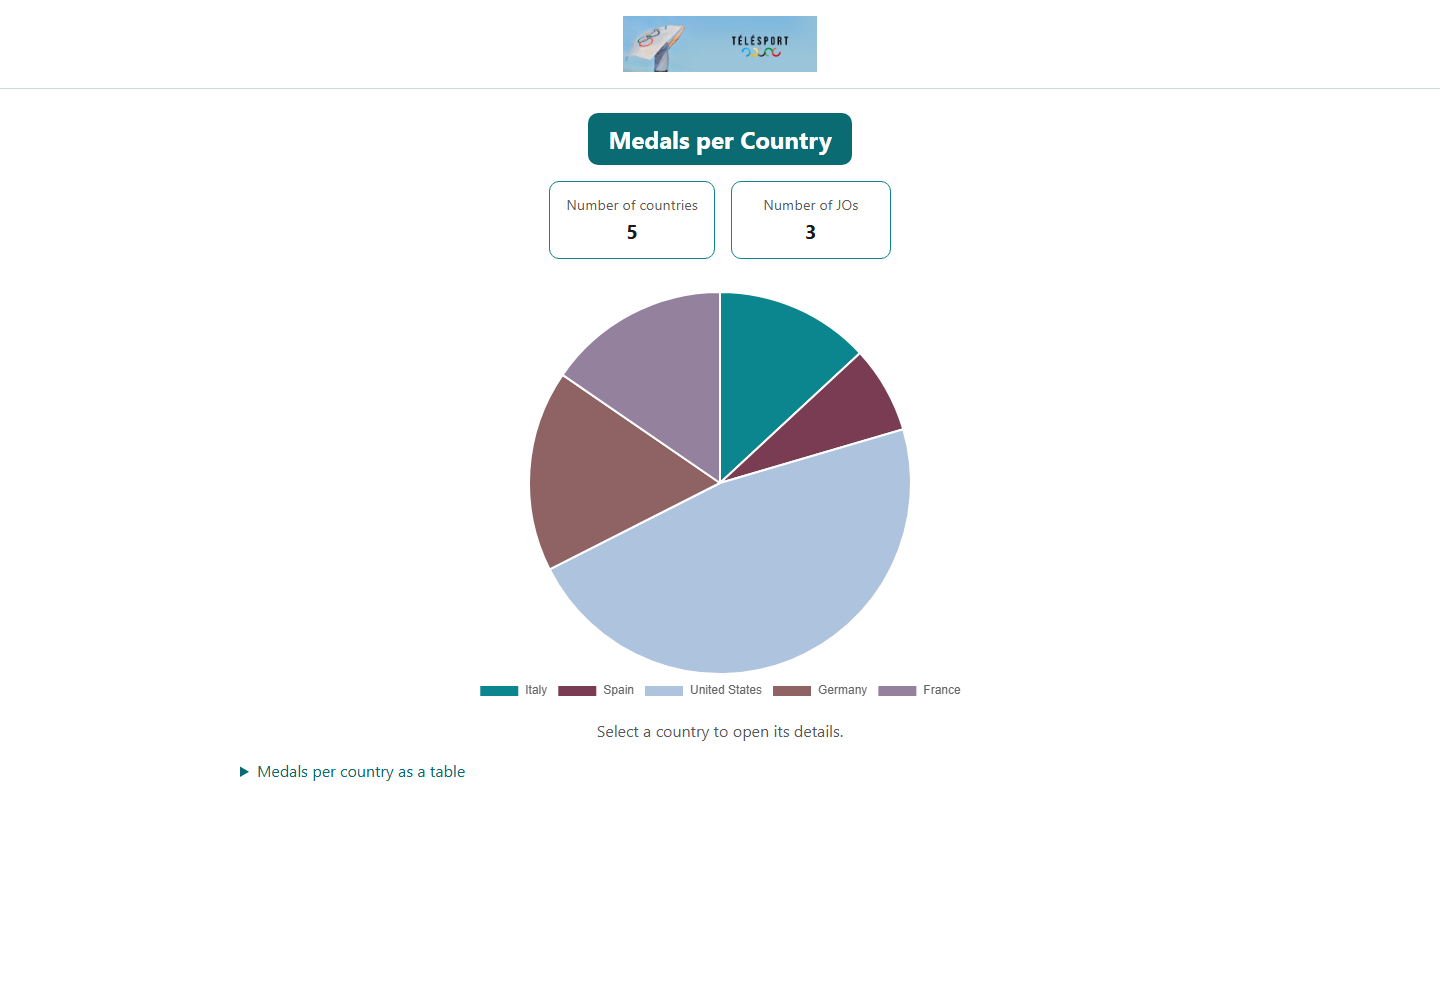
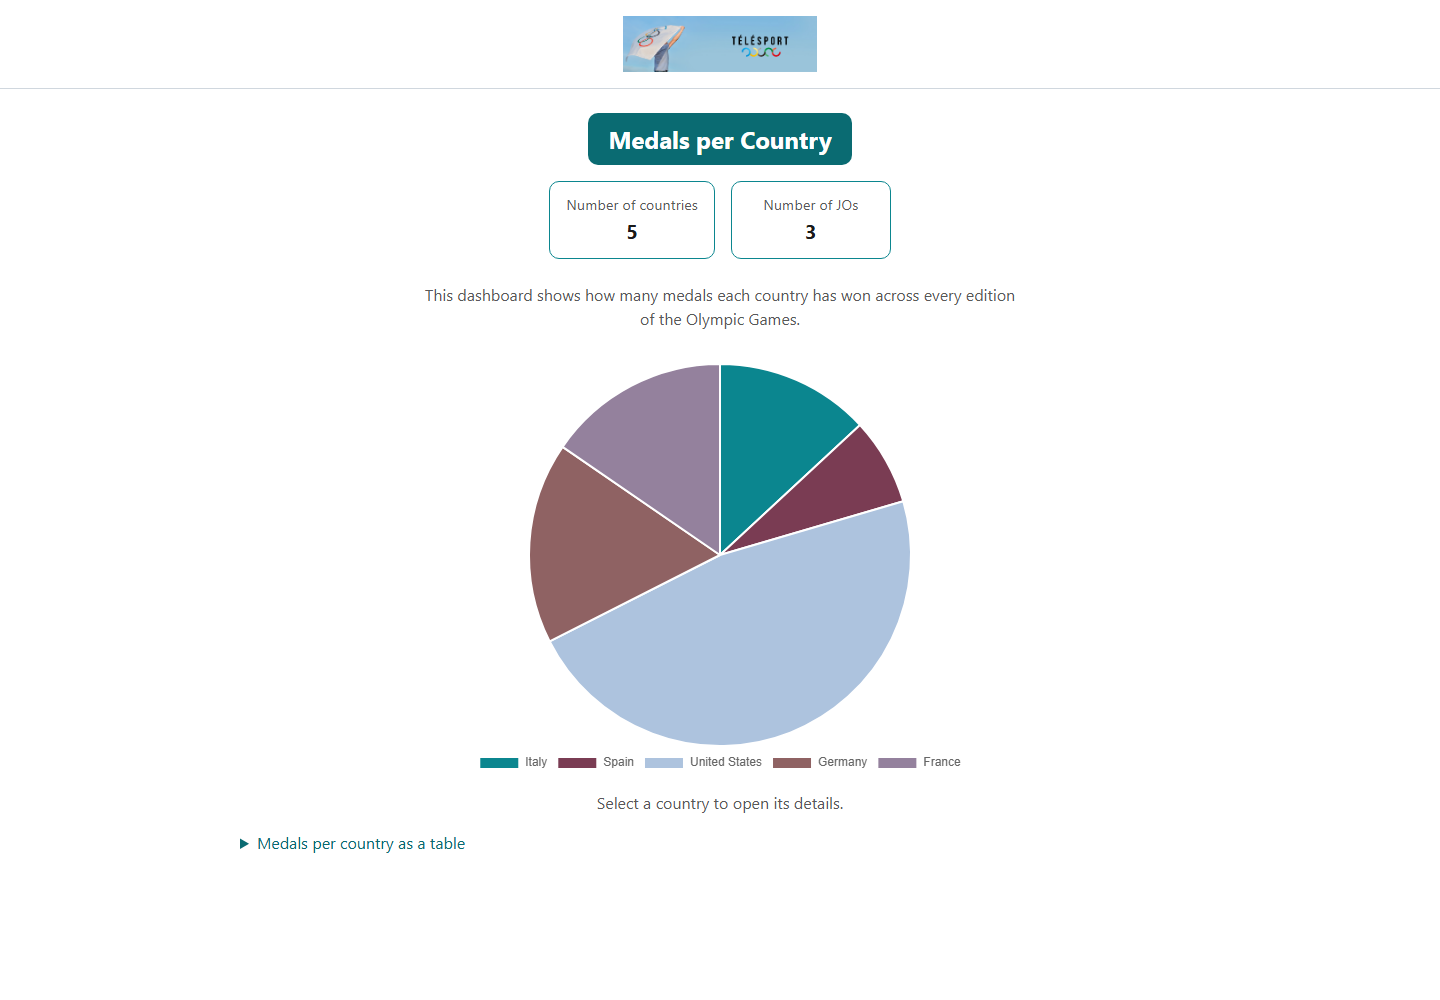
feat: texte introductif sur le dashboard

Changed region(s): [[0.1875, 0.279, 0.6875, 0.806], [0.1562, 0.837, 0.3125, 0.868]]

diff --git a/src/app/pages/dashboard-page/dashboard-page.component.html b/src/app/pages/dashboard-page/dashboard-page.component.html
@@ -1,6 +1,11 @@
 @if (view$ | async; as view) {
   <app-header [title]="view.title" [indicators]="view.indicators" />
 
+  <p class="intro">
+    This dashboard shows how many medals each country has won across every
+    edition of the Olympic Games.
+  </p>
+
   @if (view.status === 'loaded') {
     <app-medals-by-country-chart
       [data]="view.chart"

diff --git a/src/app/pages/dashboard-page/dashboard-page.component.scss b/src/app/pages/dashboard-page/dashboard-page.component.scss
@@ -4,6 +4,13 @@
   max-width: 60rem;
 }
 
+.intro {
+  margin: 1.5rem auto 0;
+  max-width: 38rem;
+  color: var(--color-text-muted);
+  text-align: center;
+}
+
 app-medals-by-country-chart {
   display: block;
   margin-top: 2rem;
